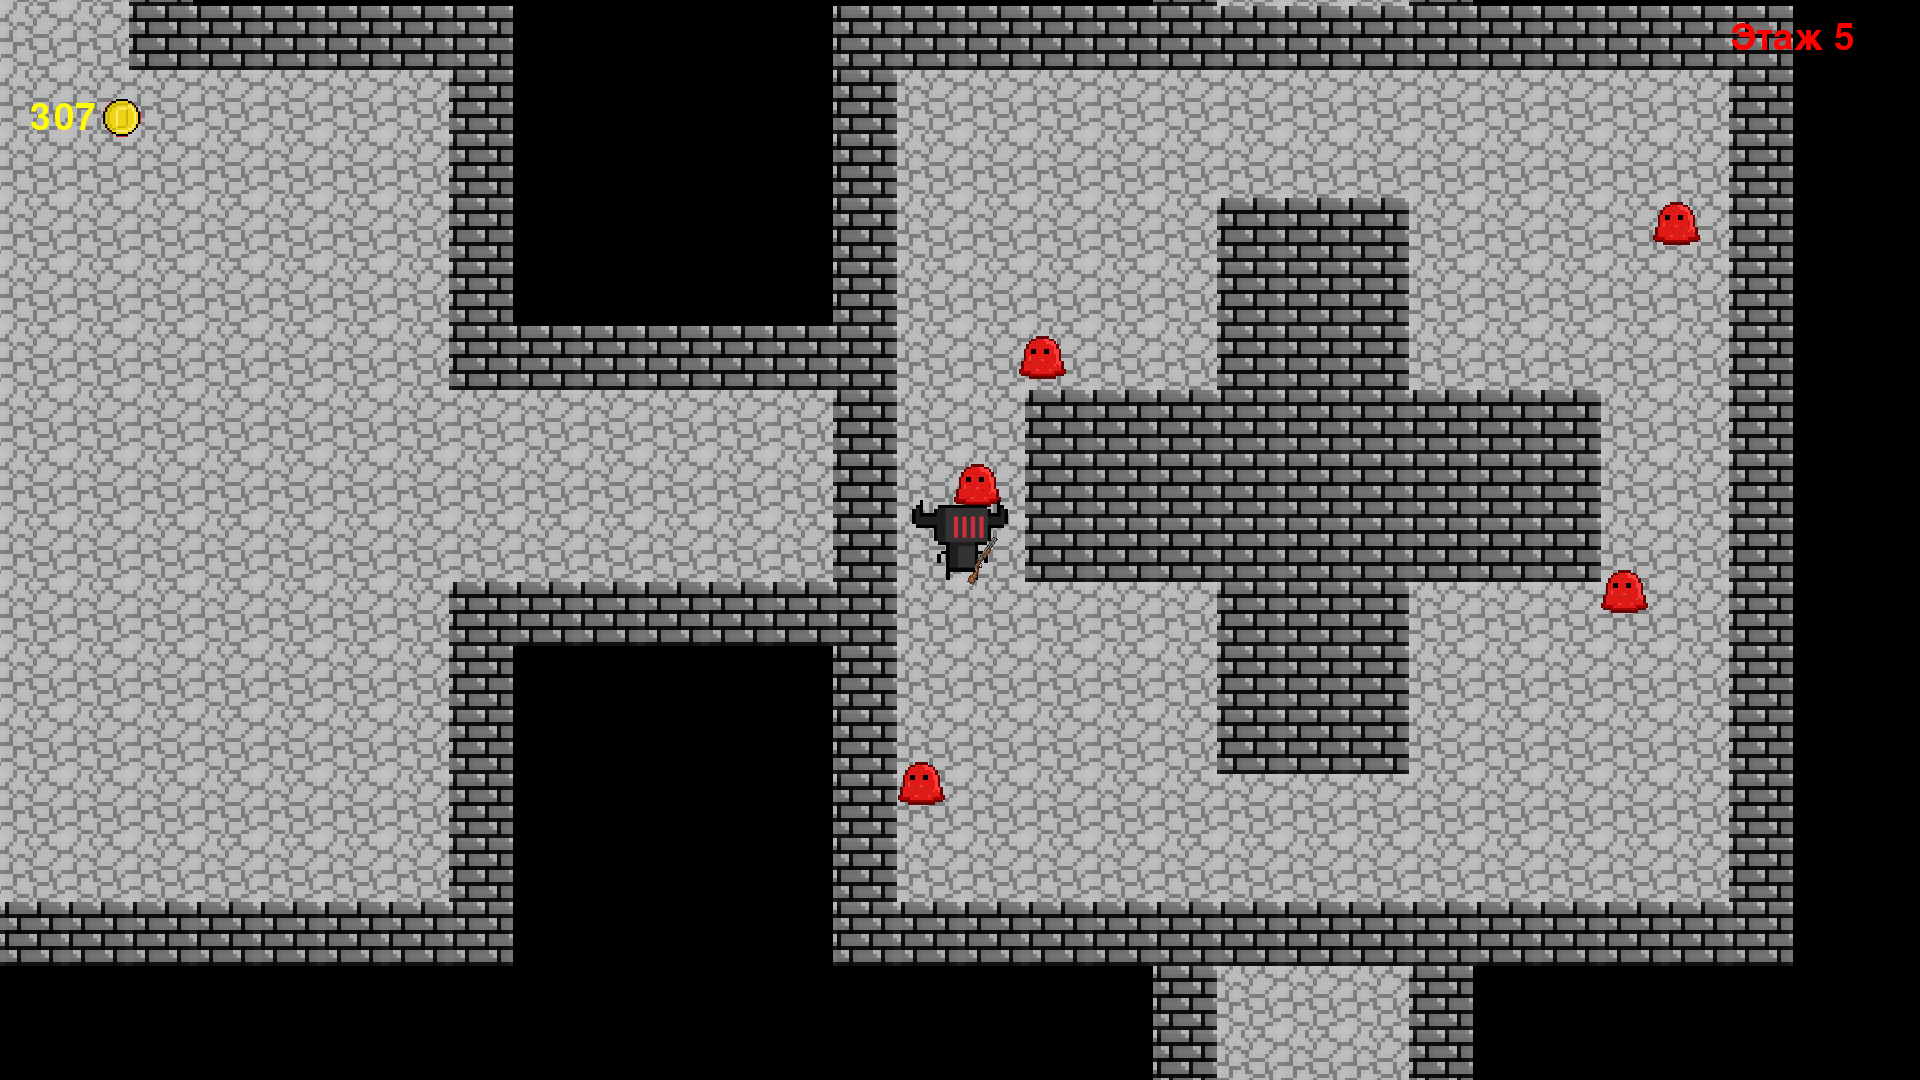
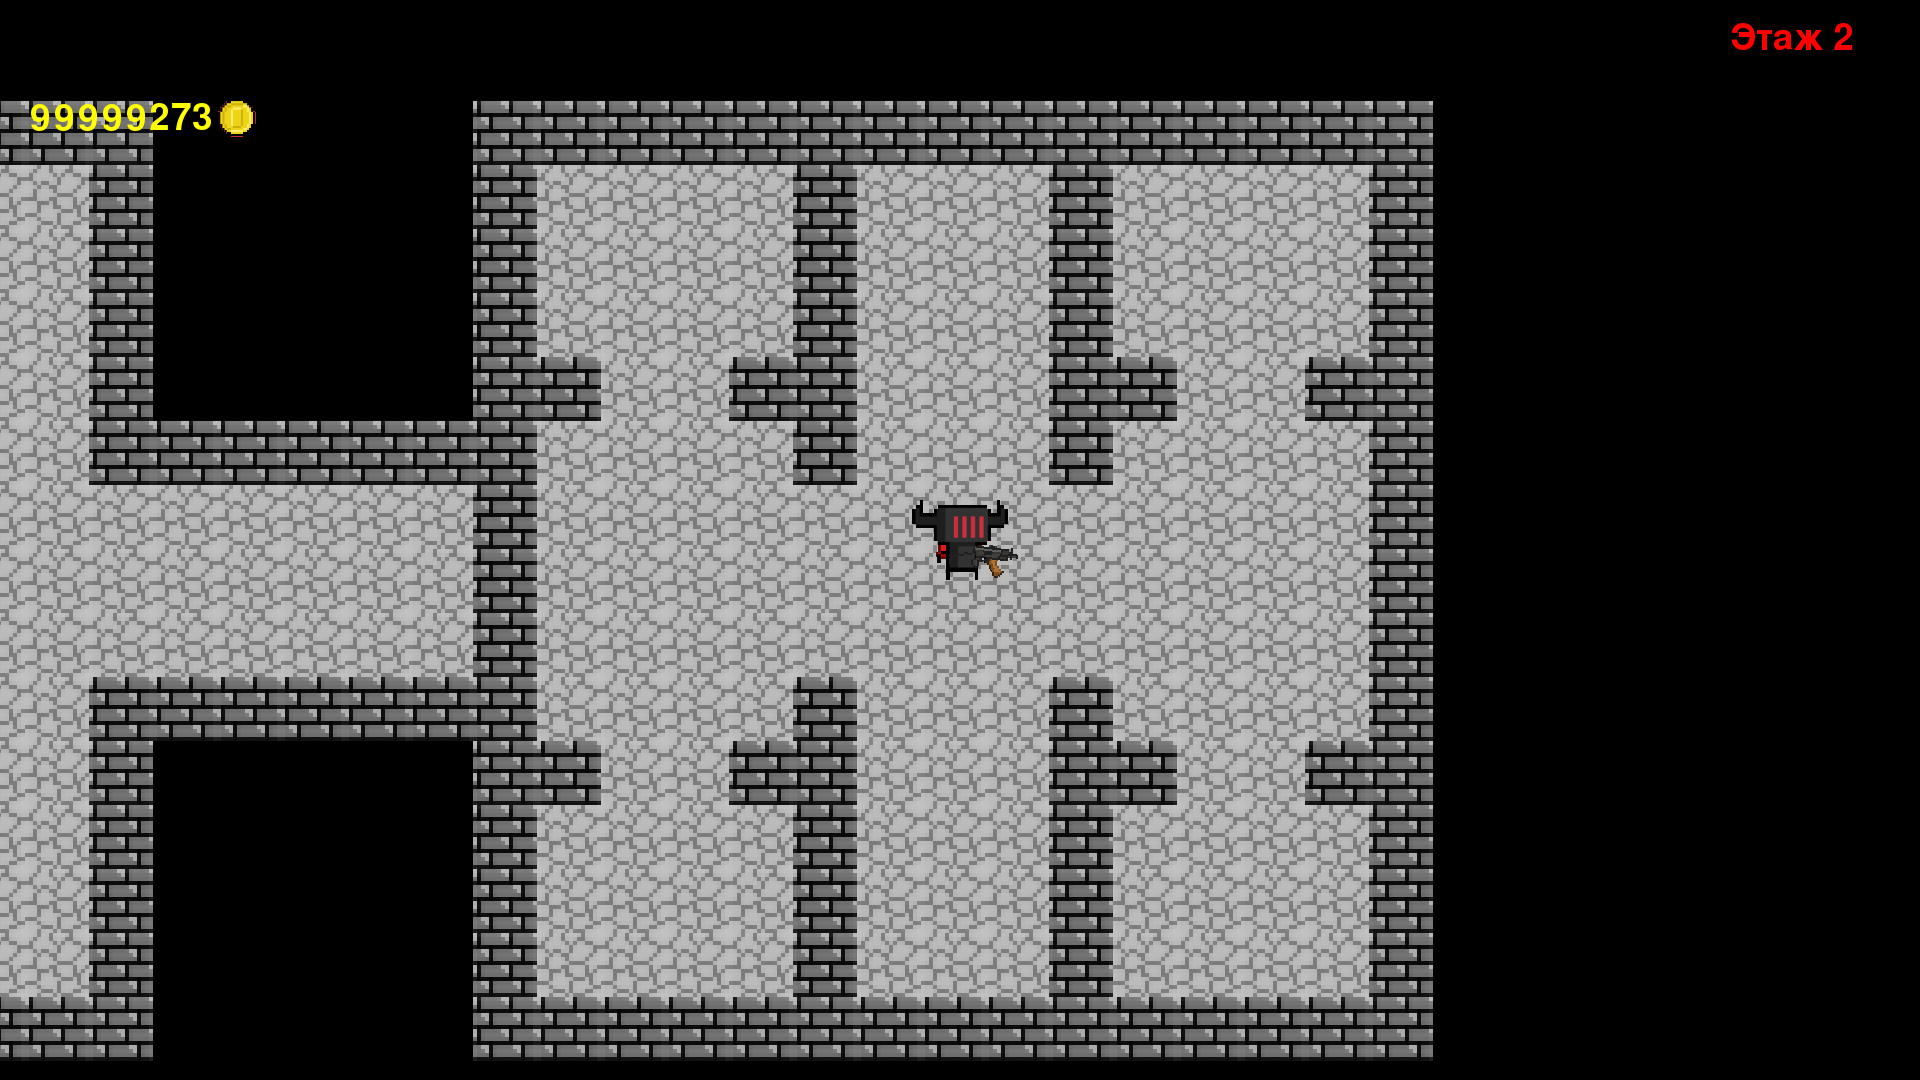
alpha 1.9 bugfix

diff --git a/roguelike.py b/roguelike.py
@@ -4,38 +4,6 @@ import pygame
 from random import shuffle, randint, uniform
 
 
-pygame.init()
-width, height = 1920, 1080
-screen = pygame.display.set_mode((width, height), pygame.FULLSCREEN)
-clock = pygame.time.Clock()
-fps = 60
-level_names = ['room1', 'room2', 'room3', 'room4', 'room5', 'room6', 'room7', 'room8', 'room9',
-               'room10']
-weapon_names = [['uzi', 500], ['ak', 1000], ['minigun', 3000], ['shotgun', 1500]]
-player = None
-room_map = []
-enemies_allowed = []
-for i in range(15):
-    enemies_allowed.append([])
-    for j in range(15):
-        enemies_allowed[i].append(True)
-for i in range(5, 10):
-    enemies_allowed[0][i] = False
-    enemies_allowed[1][i] = False
-    enemies_allowed[2][i] = False
-    enemies_allowed[12][i] = False
-    enemies_allowed[13][i] = False
-    enemies_allowed[14][i] = False
-    enemies_allowed[i][0] = False
-    enemies_allowed[i][1] = False
-    enemies_allowed[i][2] = False
-    enemies_allowed[i][12] = False
-    enemies_allowed[i][13] = False
-    enemies_allowed[i][14] = False
-dead = False
-in_game = False
-
-
 def load_image(name, colorkey=None):
     fullname = os.path.join('data', name)
     image = pygame.image.load(fullname).convert()
@@ -118,7 +86,6 @@ def reset_groups():
     walls_group.empty()
     all_sprites.empty()
     hole_group.empty()
-    gun_group.empty()
     bullet_group.empty()
     enemy_group.empty()
     dead_group.empty()
@@ -129,31 +96,6 @@ def reset_groups():
     shop_text_group.empty()
 
 
-floor = 0
-tiles_group = pygame.sprite.Group()
-player_group = pygame.sprite.Group()
-walls_group = pygame.sprite.Group()
-all_sprites = pygame.sprite.Group()
-hole_group = pygame.sprite.Group()
-gun_group = pygame.sprite.Group()
-bullet_group = pygame.sprite.Group()
-enemy_group = pygame.sprite.Group()
-dead_group = pygame.sprite.Group()
-bullet_stopper_group = pygame.sprite.Group()
-temp_walls_group = pygame.sprite.Group()
-gold_text_group = pygame.sprite.Group()
-shop_items_group = pygame.sprite.Group()
-shop_text_group = pygame.sprite.Group()
-tile_images = {'wall': load_image('images\\wall.png'),
-               'empty': load_image('images\\floor.png'),
-               'hole': load_image('images\\hole.png')}
-tile_width = 64
-tile_height = 64
-mw = 15
-mh = 15
-arrow = load_image('images\\scope.png', -1)
-
-
 def load_level(level):
     with open('data/levels/' + level, 'r') as mapFile:
         level_map = [list(line.strip()) for line in mapFile]
@@ -161,7 +103,7 @@ def load_level(level):
 
 
 def draw_room(level, i, j, t):
-    global player, gun, sig
+    global player, sig
     if t == 'room':
         ax = 0
         ay = 0
@@ -180,7 +122,6 @@ def draw_room(level, i, j, t):
             elif level[x][y] == '@':
                 Tile('empty', x + j * 20, y + i * 20)
                 player = Player(x + j * 20, y + i * 20)
-                gun = Minigun(x + j * 20, y + i * 20)
             elif level[x][y] == '$':
                 Hole('hole', x + j * 20, y + i * 20)
             elif level[x][y] == '%':
@@ -190,20 +131,22 @@ def draw_room(level, i, j, t):
                 level_map[i][j][3].append(TempWall(x + j * 20, y + i * 20))
     if level_map[i][j][0] == 'shop' and t == 'room':
         sig = []
-        sig.append(ShopItem('heart', 3 + j * 20, 7 + i * 20))
-        GoldText(3 + j * 20, 8.5 + i * 20, '300', 'shop')
+        ShopItem('heart', 3 + j * 20, 7 + i * 20)
+        sig.append(GoldText(3 + j * 20, 8.5 + i * 20, '300', 'shop'))
         n = randint(0, 3)
-        sig.append(ShopItem(weapon_names[n][0], 9 + j * 20, 7 + i * 20))
-        GoldText(9 + j * 20, 8.5 + i * 20, str(weapon_names[n][1]), 'shop')
+        ShopItem(weapon_names[n][0], 9 + j * 20, 7 + i * 20)
+        sig.append(GoldText(9 + j * 20, 8.5 + i * 20, str(weapon_names[n][1]), 'shop'))
 
 
 def draw_level():
     global level_map
     names = level_names
     shuffle(names)
-    k = randint(3, 7) + 1
+    k = randint(5, 7)
     names = names[:k]
     names.append('shop')
+    shuffle(names)
+    k += 1
     level_map = []
     for i in range(9):
         level_map.append([''] * 9)
@@ -335,6 +278,7 @@ class Player(pygame.sprite.Sprite):
         self.hitbox = Hitbox(self.x, self.y)
         self.rect = self.image.get_rect().move(self.x, self.y)
         self.gold = 99999999
+        self.gun = Pistol(self.rect.left, self.rect.top)
 
     def move(self, dir, n):
         self.rect[dir] += 5 * n
@@ -357,7 +301,7 @@ class Player(pygame.sprite.Sprite):
 
 class Gun(pygame.sprite.Sprite):
     def __init__(self, pos_x, pos_y):
-        super().__init__(gun_group, all_sprites)
+        super().__init__(gun_group)
         self.normal_image = load_image('images\\pistol.png', -1)
         self.image = load_image('images\\pistol.png', -1)
         self.x = tile_width * pos_x + 75
@@ -365,9 +309,6 @@ class Gun(pygame.sprite.Sprite):
         self.rect = self.image.get_rect().move(self.x, self.y)
         self.damage = 5
         self.bv = 10
-
-    def move(self, dir, n):
-        self.rect[dir] += 5 * n
 
     def rotate(self):
         mouse_x, mouse_y = pygame.mouse.get_pos()
@@ -550,7 +491,7 @@ class Menu:
 
 
 def death_anim():
-    global dead
+    global dead, player
     a = 255
     screen_sprite_group = pygame.sprite.Group()
     screen_sprite = pygame.sprite.Sprite(screen_sprite_group)
@@ -564,6 +505,8 @@ def death_anim():
         clock.tick(fps)
         pygame.display.flip()
         if a <= 0:
+            player.gun.kill()
+            player.kill()
             dead = False
             menu.in_menu = True
         a -= 2
@@ -577,7 +520,7 @@ def generate_map():
 
 
 def run_game():
-    global screen, in_game, dead, floor, gun
+    global screen, in_game, dead, floor
     floor = 0
     mouse_pos = (0, 0)
     camera = Camera()
@@ -597,14 +540,12 @@ def run_game():
                 shooting = False
             if event.type == pygame.MOUSEMOTION:
                 mouse_pos = event.pos
-                gun.rotate()
+                player.gun.rotate()
             if event.type == pygame.KEYDOWN:
                 if event.key == pygame.K_RIGHT or event.key == pygame.K_d:
                     player.move(0, 1)
-                    gun.move(0, 1)
                     if pygame.sprite.spritecollideany(player.hitbox, walls_group):
                         player.move(0, -1)
-                        gun.move(0, -1)
                     if player.walk_cycle < 10:
                         player.image = load_image('images\\player.png', -1)
                     else:
@@ -613,10 +554,8 @@ def run_game():
                     player.direction = 'right'
                 if event.key == pygame.K_LEFT or event.key == pygame.K_a:
                     player.move(0, -1)
-                    gun.move(0, -1)
                     if pygame.sprite.spritecollideany(player.hitbox, walls_group):
                         player.move(0, 1)
-                        gun.move(0, 1)
                     if player.walk_cycle < 10:
                         player.image = load_image('images\\player_left.png', -1)
                     else:
@@ -625,10 +564,8 @@ def run_game():
                     player.direction = 'left'
                 if event.key == pygame.K_UP or event.key == pygame.K_w:
                     player.move(1, -1)
-                    gun.move(1, -1)
                     if pygame.sprite.spritecollideany(player.hitbox, walls_group):
                         player.move(1, 1)
-                        gun.move(1, 1)
                     if player.walk_cycle < 10:
                         player.image = load_image('images\\player_back.png', -1)
                     else:
@@ -637,22 +574,24 @@ def run_game():
                     player.direction = 'up'
                 if event.key == pygame.K_DOWN or event.key == pygame.K_s:
                     player.move(1, 1)
-                    gun.move(1, 1)
                     if pygame.sprite.spritecollideany(player.hitbox, walls_group):
                         player.move(1, -1)
-                        gun.move(1, -1)
                     if player.walk_cycle < 10:
                         player.image = load_image('images\\player_front.png', -1)
                     else:
                         player.image = load_image('images\\player_front_2.png', -1)
                     player.walk_cycle = (player.walk_cycle + 1) % 20
                     player.direction = 'down'
+                if event.key == pygame.K_m:
+                    pass
                 if pygame.sprite.spritecollideany(player.hitbox, hole_group):
                     hp = player.hp
                     gold = player.gold
+                    gun = player.gun
                     generate_map()
                     player.hp = hp
                     player.gold = gold
+                    player.gun = gun
         rx, ry = player.room[0], player.room[1]
         if level_map[ry][rx] != '' and not player.in_corridor:
             if level_map[ry][rx][2] == 'full':
@@ -664,8 +603,8 @@ def run_game():
                     sprite.update()
         if shooting:
             if shoot_timer == 0:
-                gun.shoot(mouse_pos)
-                shoot_timer = gun.gap
+                player.gun.shoot(mouse_pos)
+                shoot_timer = player.gun.gap
         camera.update(player)
         for sprite in all_sprites:
             camera.apply(sprite)
@@ -688,24 +627,42 @@ def run_game():
                     level_map[ry][rx][1] -= 1
                     j.killed = True
                     player.gold += randint(j.drop[0], j.drop[1])
+        bought = False
         collide = pygame.sprite.groupcollide(player_group, shop_items_group, False, False)
         if collide:
             key = list(collide.keys())[0]
             if collide[key][0].item_type == 'heart':
-                player.hp += 1
-                sig[0].kill()
+                bought = player.gold >= 300
+                if bought:
+                    player.hp += 1
+                    sig[0].kill()
+                    player.gold -= 300
             else:
+                player.gun.kill()
                 if collide[key][0].item_type == 'uzi':
-                    gun = Uzi(player.rect.left, player.rect.top)
+                    bought = player.gold >= 500
+                    if bought:
+                        player.gun = Uzi(player.rect.left, player.rect.top)
+                        player.gold -= 500
                 elif collide[key][0].item_type == 'ak':
-                    gun = AK(player.rect.left, player.rect.top)
+                    bought = player.gold >= 1000
+                    if bought:
+                        player.gun = AK(player.rect.left, player.rect.top)
+                        player.gold -= 1000
                 elif collide[key][0].item_type == 'minigun':
-                    gun = Minigun(player.rect.left, player.rect.top)
+                    bought = player.gold >= 3000
+                    if bought:
+                        player.gun = Minigun(player.rect.left, player.rect.top)
+                        player.gold -= 3000
                 elif collide[key][0].item_type == 'shotgun':
-                    gun = Shotgun(player.rect.left, player.rect.top)
-                sig[-1].kill()
-            collide[key][0].kill()
-
+                    bought = player.gold >= 1500
+                    if bought:
+                        player.gun = Shotgun(player.rect.left, player.rect.top)
+                        player.gold -= 1500
+                if bought:
+                    sig[-1].kill()
+            if bought:
+                collide[key][0].kill()
         enemy_group.draw(screen)
         dead_group.draw(screen)
         if player.direction == 'up':
@@ -743,6 +700,59 @@ def run_game():
             shoot_timer -= 1
 
 
+pygame.init()
+width, height = 1920, 1080
+screen = pygame.display.set_mode((width, height), pygame.FULLSCREEN)
+clock = pygame.time.Clock()
+fps = 60
+level_names = ['room1', 'room2', 'room3', 'room4', 'room5', 'room6', 'room7', 'room8', 'room9',
+               'room10']
+weapon_names = [['uzi', 500], ['ak', 1000], ['minigun', 3000], ['shotgun', 1500]]
+player = None
+room_map = []
+enemies_allowed = []
+for i in range(15):
+    enemies_allowed.append([])
+    for j in range(15):
+        enemies_allowed[i].append(True)
+for i in range(5, 10):
+    enemies_allowed[0][i] = False
+    enemies_allowed[1][i] = False
+    enemies_allowed[2][i] = False
+    enemies_allowed[12][i] = False
+    enemies_allowed[13][i] = False
+    enemies_allowed[14][i] = False
+    enemies_allowed[i][0] = False
+    enemies_allowed[i][1] = False
+    enemies_allowed[i][2] = False
+    enemies_allowed[i][12] = False
+    enemies_allowed[i][13] = False
+    enemies_allowed[i][14] = False
+dead = False
+in_game = False
+floor = 0
+tiles_group = pygame.sprite.Group()
+player_group = pygame.sprite.Group()
+walls_group = pygame.sprite.Group()
+all_sprites = pygame.sprite.Group()
+hole_group = pygame.sprite.Group()
+gun_group = pygame.sprite.Group()
+bullet_group = pygame.sprite.Group()
+enemy_group = pygame.sprite.Group()
+dead_group = pygame.sprite.Group()
+bullet_stopper_group = pygame.sprite.Group()
+temp_walls_group = pygame.sprite.Group()
+gold_text_group = pygame.sprite.Group()
+shop_items_group = pygame.sprite.Group()
+shop_text_group = pygame.sprite.Group()
+tile_images = {'wall': load_image('images\\wall.png'),
+               'empty': load_image('images\\floor.png'),
+               'hole': load_image('images\\hole.png')}
+tile_width = 64
+tile_height = 64
+mw = 15
+mh = 15
+arrow = load_image('images\\scope.png', -1)
 menu = Menu()
 while in_game or menu.in_menu or dead:
     if in_game:
